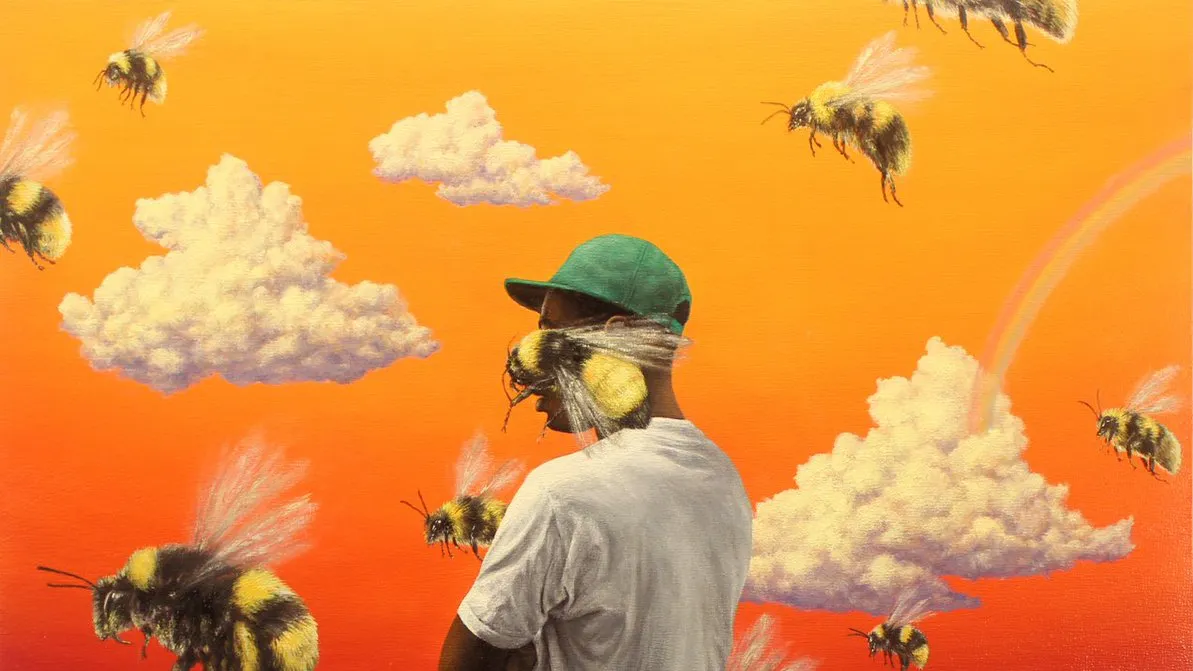
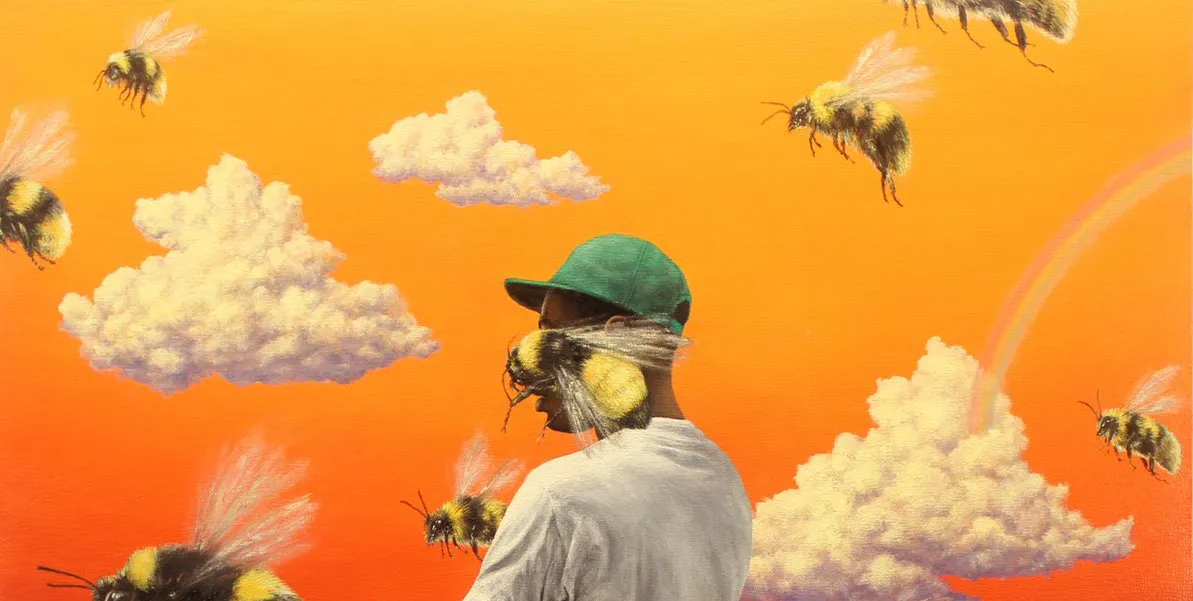
Agregado imagenes pre-liminares hero

diff --git a/style.css b/style.css
@@ -538,11 +538,11 @@ background: linear-gradient(to right, #F2C94C, #F2994A); /* W3C, IE 10+/ Edge, F
 /* Aca empieza a estilar LUCA - Seccion FORMULARIO */
 .formulario-contenedor {
     width: 100%;
-    /* padding: 4rem 2rem; */
-    /* background-color: #f5f5f5; */
+    padding: 4rem 2rem;
+    background-color: #f5f5f5;
 }
 
-/* .formulario-contenedor_titulo {
+.formulario-contenedor_titulo {
     width: 100%;
     margin-bottom: 3rem;
     text-align: center;
@@ -550,30 +550,20 @@ background: linear-gradient(to right, #F2C94C, #F2994A); /* W3C, IE 10+/ Edge, F
 
 .formulario-contenedor_titulo h3 {
     font-size: 2rem;
-    margin-bottom: 1rem;
+    margin-bottom: 0;
     text-decoration: underline #A4907C;
-} */
+}
 
 .formulario-contenedor_formulario {
     width: 100%;
-    display: flex;
-    flex-direction: column;
 }
 
 .formulario-contenedor_formulario form {
     width: 100%;
     padding: 2rem;
-    background: #F2994A;  /* fallback for old browsers */
-    background: -webkit-linear-gradient(to right, #F2C94C, #F2994A);  /* Chrome 10-25, Safari 5.1-6 */
-    background: linear-gradient(to right, #F2C94C, #F2994A); /* W3C, IE 10+/ Edge, Firefox 16+, Chrome 26+, Opera 12+, Safari 7+ */
-    /* border-radius: 4px; */
-    border: 1px solid black;
+    background-color: #A4907C;
+    border-radius: 10px;
     box-shadow: 10px 10px 40px -20px rgba(0,0,0,0.7);
-}
-
-.formulario-contenedor_formulario form h3 {
-    font-size: 2rem;
-    margin-bottom: 2rem;
 }
 
 .formulario-grupo {
@@ -592,7 +582,7 @@ background: linear-gradient(to right, #F2C94C, #F2994A); /* W3C, IE 10+/ Edge, F
     width: 100%;
     text-indent: 1rem;
     padding: .5rem .5rem .5rem 0;
-    border: 1px solid black;
+    border: none;
     outline: none;
     border-radius: .5rem;
 }
@@ -613,7 +603,7 @@ background: linear-gradient(to right, #F2C94C, #F2994A); /* W3C, IE 10+/ Edge, F
     width: 100%;
     height: 4rem;
     padding: .5rem .5rem .5rem 1rem;
-    border: 1px solid black;
+    border: none;
     outline: none;
     border-radius: .5rem;
     resize: none;
@@ -622,12 +612,12 @@ background: linear-gradient(to right, #F2C94C, #F2994A); /* W3C, IE 10+/ Edge, F
 .formulario-grupo_botones {
     width: 100%;
     display: flex;
-    justify-content: flex-start;
+    justify-content: space-between;
 }
 
 .formulario-grupo_botones button {
     padding: .6rem 1.2rem;
-    border: 1px solid black;
+    border: none;
     border-radius: .5rem;
     background-color: #f5f5f5;
     font-size: 1rem;
@@ -636,70 +626,8 @@ background: linear-gradient(to right, #F2C94C, #F2994A); /* W3C, IE 10+/ Edge, F
     transition: all .3s;
 }
 
-.formulario-grupo_botones .btn-reset {
-    margin-left: 1rem;
-}
-
 .formulario-grupo_botones button:hover {
     transform: scale(1.1);
-}
-
-.formulario-contenedor_formulario .formulario-nosotros {
-    width: 100%;
-    padding: 2rem;
-    background: #F2994A;  /* fallback for old browsers */
-    background: -webkit-linear-gradient(to right, #F2C94C, #F2994A);  /* Chrome 10-25, Safari 5.1-6 */
-    background: linear-gradient(to right, #F2C94C, #F2994A); /* W3C, IE 10+/ Edge, Firefox 16+, Chrome 26+, Opera 12+, Safari 7+ */
-    /* border-radius: 4px; */
-    border: 1px solid black;
-    box-shadow: 10px 10px 40px -20px rgba(0,0,0,0.7);
-}
-
-.formulario-contenedor_formulario .formulario-nosotros h3 {
-    font-size: 2rem;
-    margin-bottom: 2rem;
-}
-
-.formulario-nosotros .datos-contacto {
-    display: flex;
-    flex-wrap: wrap;
-    gap: 1rem;
-}
-
-.formulario-nosotros .datos-contacto p {
-    font-size: 1.2rem;
-    font-weight: 500;
-}
-
-.formulario-nosotros .datos-direccion p {
-    font-size: 1.2rem;
-    font-weight: 500;
-}
-
-.formulario-nosotros .datos-horarios {
-    padding-top: 1rem;
-}
-
-.formulario-nosotros .datos-horarios span {
-    font-size: 1.2rem;
-    font-weight: 500;
-}
-
-.formulario-nosotros .datos-horarios p {
-    font-size: 1rem;
-    font-weight: 500;
-    margin-bottom: 0;
-}
-
-.formulario-nosotros .nosotros-imagen {
-    margin-top: 1rem;
-    width: 100%;
-    height: 180px;
-    background-image: url('./Images/image.jpg');
-    background-size: cover;
-    background-position: top;
-    border-radius: 4px;
-    border: 1px solid black;
 }
 
 /* Seccion FOOTER */
@@ -932,14 +860,6 @@ footer p {
             display: block;
             position: fixed;
           }
-
-          .formulario-nosotros .datos-contacto {
-            gap: 1.6rem;
-          }
-}
-
-@media(min-width: 800px) {
-
 }
 
   @media(min-width:1200px){
@@ -1016,17 +936,6 @@ footer p {
         display: block;
         position: fixed;
       }
-
-      .formulario-contenedor_formulario {
-        flex-direction: row;
-      }
-
-      .formulario-contenedor_formulario form {
-        width: 50%;
-      }
-
-      .formulario-contenedor_formulario .formulario-nosotros {
-        width: 50%;
-      }
+    
 
 }

diff --git a/index.html b/index.html
@@ -56,21 +56,21 @@
                 </div>
                 <div class="carousel-inner">
                   <div class="carousel-item active">
-                    <img src="Images/Atarashi Hero.png" class="d-block w-100" alt="...">
+                    <img src="Images/Led Banner.jpg" class="d-block w-100" alt="...">
                     <div class="carousel-content">
                         <p class="text-1" id="logo-1"> CodeMusic </p> 
-                        <p class="text-2" id="genre-1"> J-Pop</p>
+                        <p class="text-2" id="genre-1"> Rock</p>
                    </div>
                   </div>
                   <div class="carousel-item">
-                    <img src="Images/Crane Wives - Folk.jpg" class="d-block w-100" alt="...">
+                    <img src="Images/Bjork Header.png" class="d-block w-100" alt="...">
                     <div class="carousel-content">
                         <p class="text-1" id="logo-2"> CodeMusic </p> 
-                        <p class="text-2" id="genre-2"> Folk</p>
+                        <p class="text-2" id="genre-2"> Pop</p>
                     </div>
                   </div>
                   <div class="carousel-item">
-                    <img src="Images/Tyler, Hero 3.webp" class="d-block w-100" alt="..." >
+                    <img src="Images/artista x banner.jpeg" class="d-block w-100" alt="..." >
                     <div class="carousel-content">
                         <p class="text-1" id="logo-3"> Code Music </p> 
                         <p class="text-2" id="genre-3"> Rap</p>
